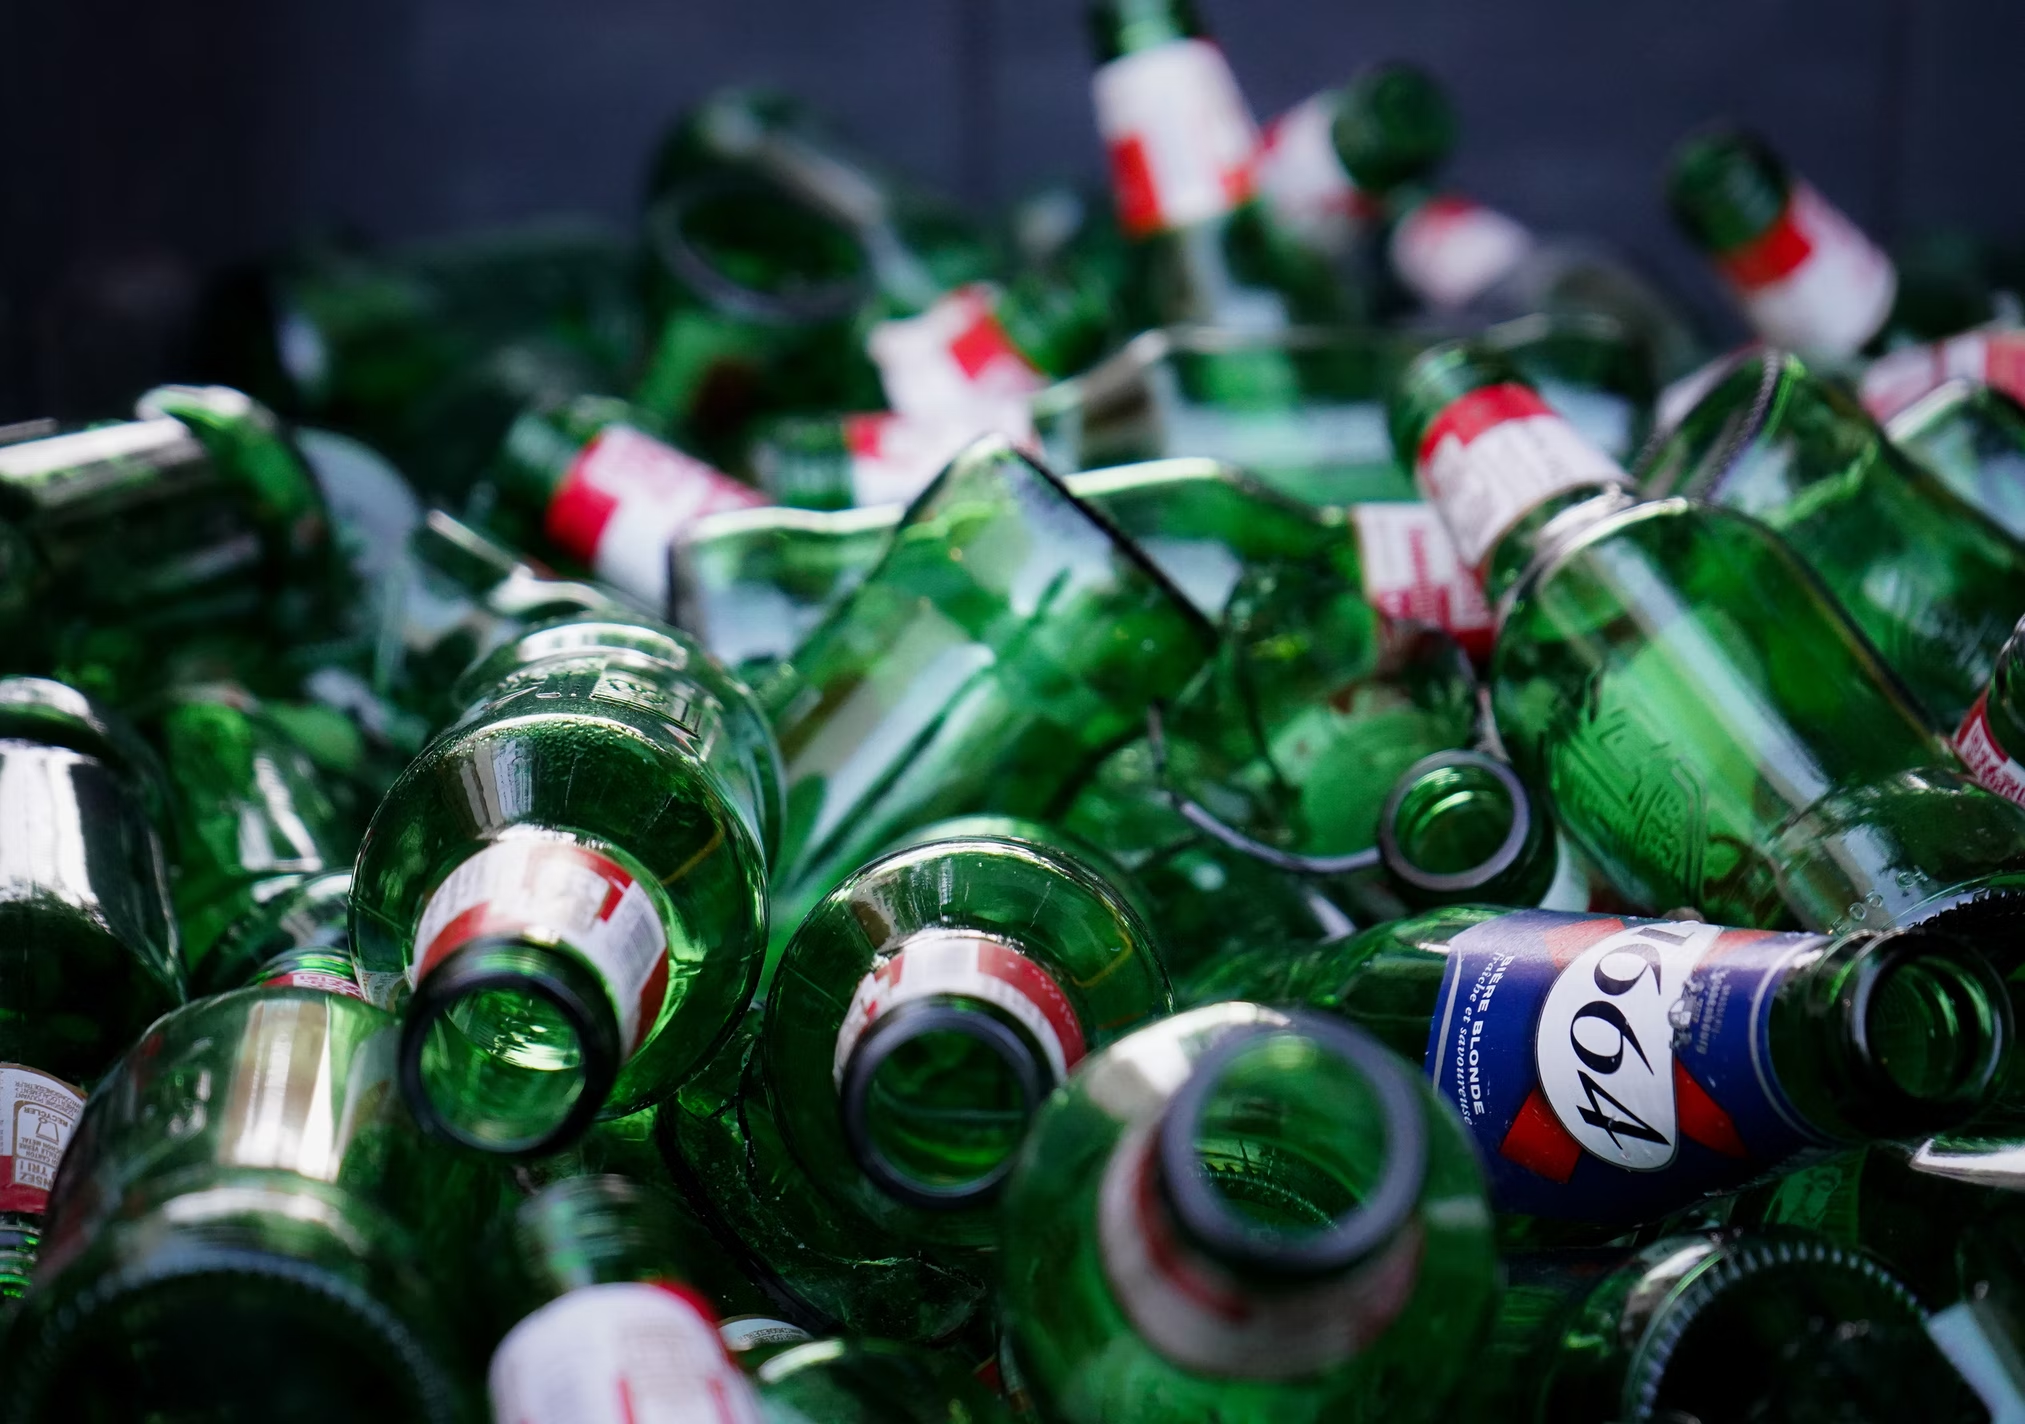
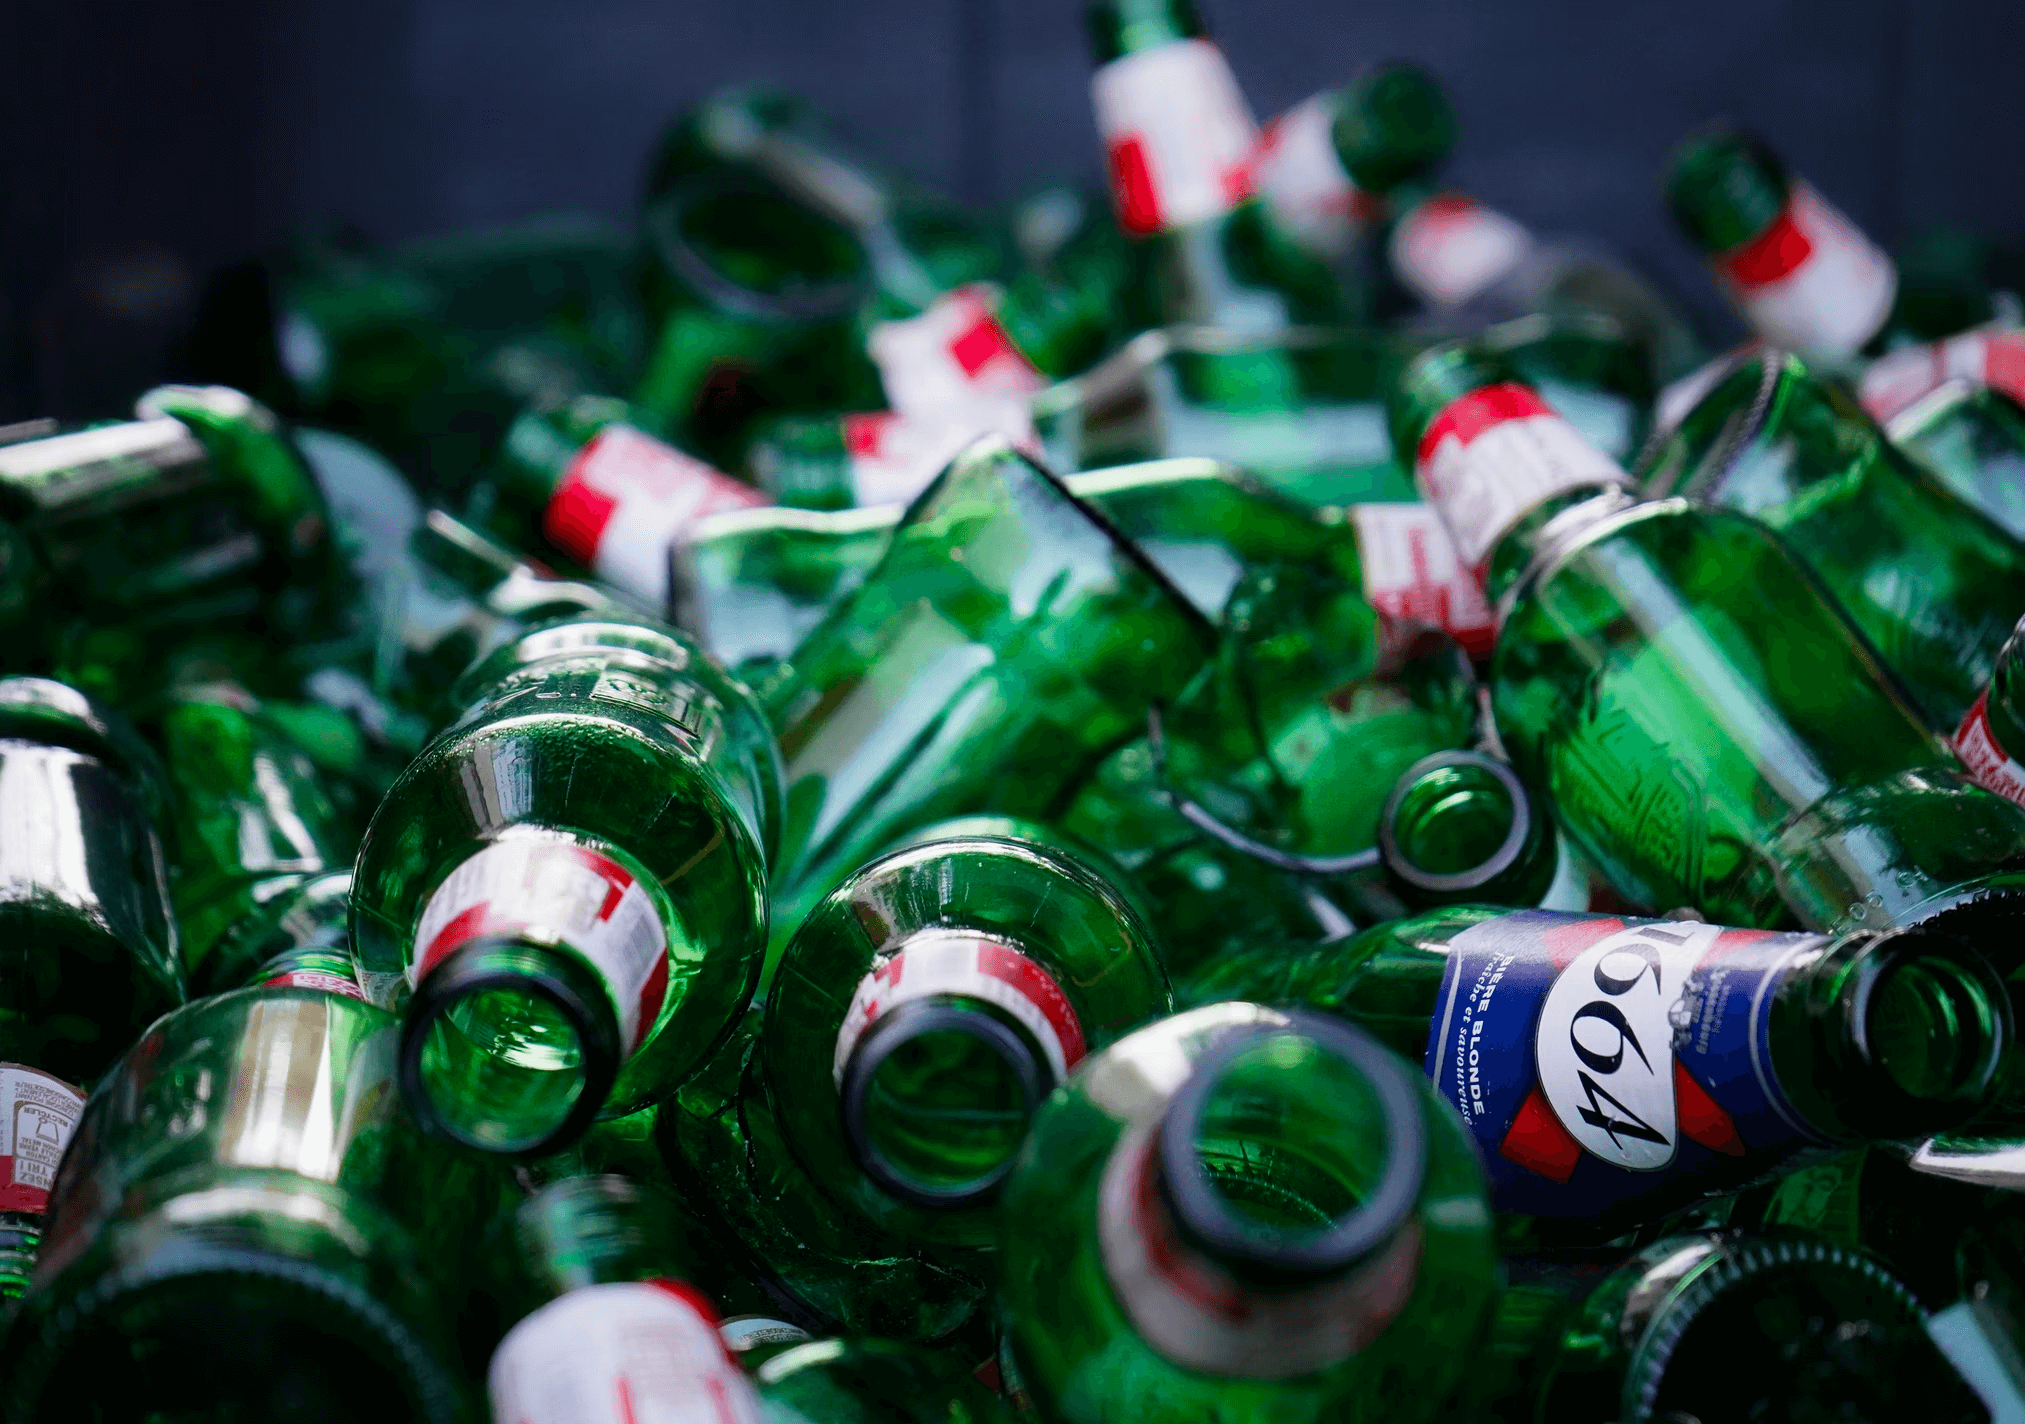
compressed images

diff --git a/index.html b/index.html
@@ -4,9 +4,11 @@
 
   <head>
     <meta charset="UTF-8" />
-    <link rel="icon" href="/favicon.ico" />
+    <link rel="icon" href="" />
+
     <meta name="viewport" content="width=device-width, initial-scale=1.0" />
     <title>UXUI Portfolio</title>
+
     <link rel="stylesheet" href="https://unpkg.com/aos@next/dist/aos.css" />
     <link rel="preconnect" href="https://fonts.googleapis.com">
     <link rel="preconnect" href="https://fonts.gstatic.com" crossorigin>
@@ -16,11 +18,11 @@
 
   <body>
     <div id="app"></div>
-    <script type="module" src="/src/main.js"></script>
     <script src="https://unpkg.com/aos@next/dist/aos.js"></script>
     <script>
       AOS.init();
     </script>
+    <script type="module" src="/src/main.js"></script>
   </body>
 
   </html>

diff --git a/src/main.js b/src/main.js
@@ -1,5 +1,6 @@
 import { createApp } from 'vue'
 import App from './App.vue'
+import router from './router'
 import { FontAwesomeIcon } from '@fortawesome/vue-fontawesome'
 import { library } from '@fortawesome/fontawesome-svg-core';
 import { fas } from '@fortawesome/free-solid-svg-icons'
@@ -7,7 +8,6 @@ import { fab } from '@fortawesome/free-brands-svg-icons'
 
 library.add(fas, fab);
 
-import router from './router'
 
 createApp(App)
     .component('fa', FontAwesomeIcon)
